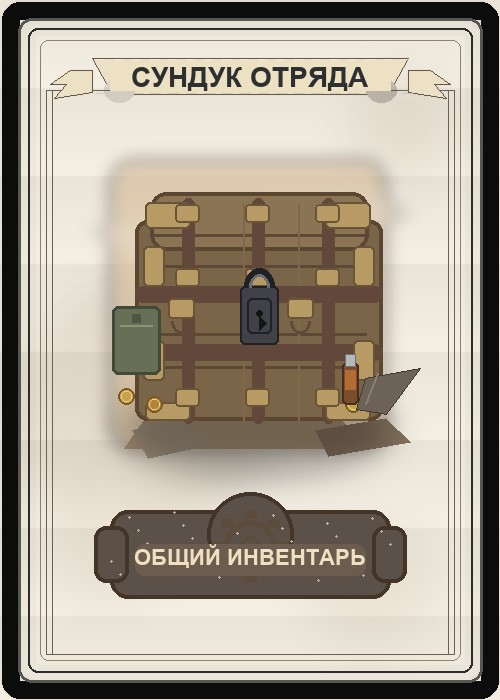
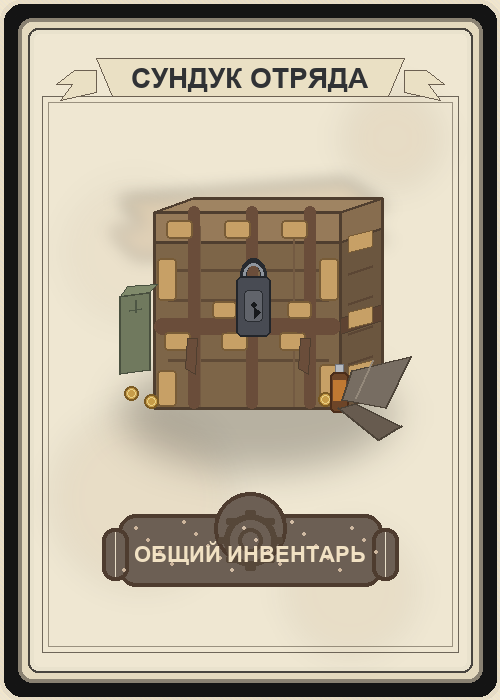
Align SPECIAL fields and refresh stash card

Changed region(s): [[0.0, 0.0, 1.0, 1.0], [0.18, 0.21, 0.84, 0.69], [0.18, 0.72, 0.84, 0.87]]

diff --git a/campaign.js b/campaign.js
@@ -67,6 +67,8 @@
     return JSON.parse(JSON.stringify(obj));
   }
 
+  const STASH_IMG = 'images/units/stash.png?v=20260318';
+
   // -------------------- db --------------------
   const db = {
     units: [],
@@ -100,7 +102,7 @@
 
     db.units = unitsRaw.map(u => ({
       ...u,
-      img: db.unitsMap[u.id] || `images/units/${u.id}.png`,
+      img: u.id === 'stash' ? STASH_IMG : (db.unitsMap[u.id] || `images/units/${u.id}.png`),
       name: (u.name || '').trim(),
     }));
     db.items = itemsRaw.map(it => ({
@@ -117,7 +119,6 @@
 
   // -------------------- state --------------------
   const STORAGE_KEY = 'fww_campaign_state_v2';
-  const STASH_IMG = 'images/stash-placeholder.svg';
   const SPECIAL_MOD_KEYS = ['str', 'per', 'end', 'cha', 'int', 'agi', 'luc'];
 
   function makeDefaultSpecialMods() {
@@ -163,7 +164,7 @@
       uid: `u_${Math.random().toString(36).slice(2, 10)}`,
       unitId,
       isStash: !!base?.is_stash,
-      img: base?.img || 'images/missing-unit.png',
+      img: base?.is_stash ? STASH_IMG : (base?.img || 'images/missing-unit.png'),
       name: base?.name || 'Unit',
       rank: '',
       xp: 0,
@@ -252,6 +253,9 @@
     // ensure arrays sizes
     state.units.forEach(u => {
       u.isStash = Boolean(u.isStash || db.unitsById[u.unitId]?.is_stash);
+      if (u.isStash) {
+        u.img = STASH_IMG;
+      }
       if (u.isStash && (!u.name || u.name === 'Stash' || u.name === 'Inventory')) {
         u.name = db.unitsById[u.unitId]?.name || 'Сундук / инвентарь';
       }

diff --git a/campaign.css b/campaign.css
@@ -291,7 +291,7 @@ body.campaign-page {
   position: relative;
   width: fit-content;
   max-width: 470px;
-  margin-right: 52px;
+  margin-right: 58px;
 }
 
 .unit-card-manual {
@@ -300,11 +300,11 @@ body.campaign-page {
 }
 
 .unit-card-manual--special {
-  top: 49%;
-  right: -42px;
-  transform: translateY(-50%);
+  top: 108px;
+  right: -44px;
+  transform: none;
   display: grid;
-  gap: 8px;
+  gap: 24px;
 }
 
 .unit-card-manual__input {
@@ -445,7 +445,8 @@ body.campaign-page {
 }
 
 .stash-card {
-  max-width: 420px;
+  max-width: 340px;
+  margin: 0 auto;
 }
 
 /* Дополнительные отступы для левой панели Inventory */

diff --git a/campaign_print.css b/campaign_print.css
@@ -141,8 +141,10 @@
   }
 
   body[data-tab="Units"] .unit-card-manual--special {
-    right: -10mm !important;
-    gap: 1.2mm !important;
+    top: 18.8mm !important;
+    right: -10.2mm !important;
+    transform: none !important;
+    gap: 4.7mm !important;
   }
 
   body[data-tab="Units"] .unit-card-manual__input {
